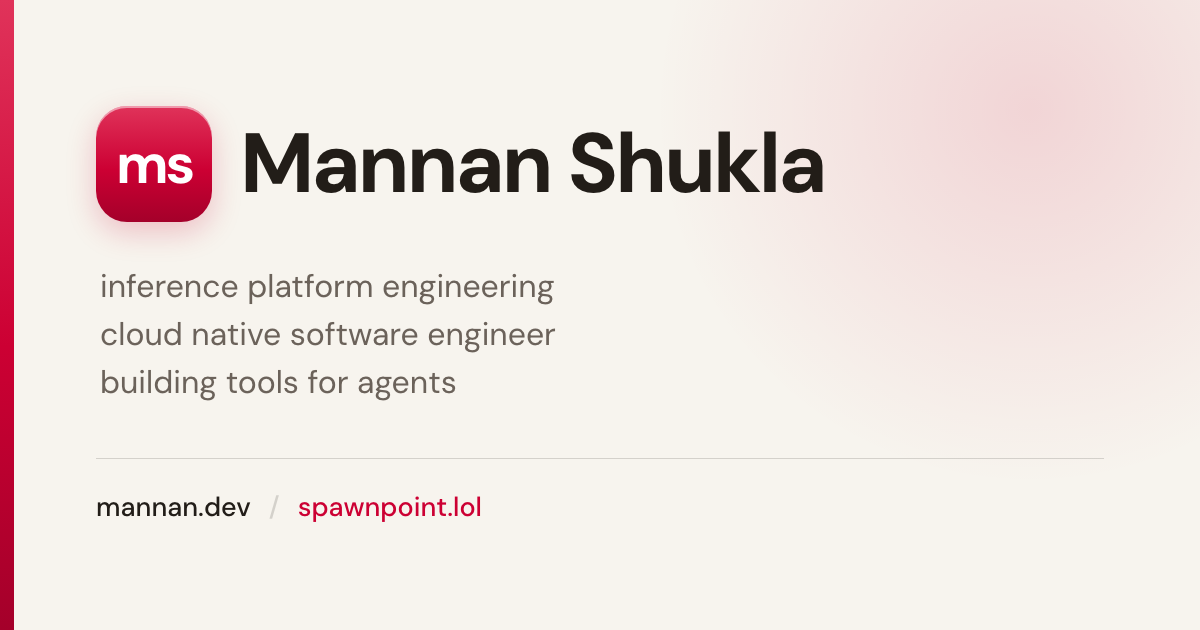
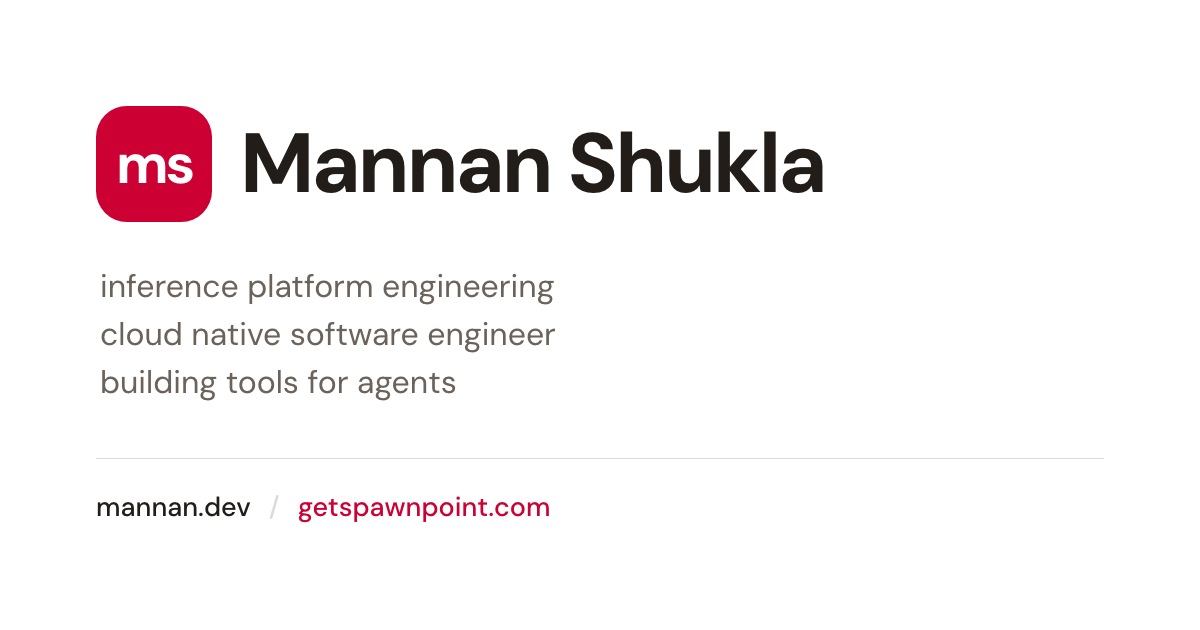
Flatten the social preview card and point it at getspawnpoint.com
Claude-Session: https://claude.ai/code/session_01284gCzt4fkzW3mfonY6vRM

diff --git a/misc/og.html b/misc/og.html
@@ -22,10 +22,9 @@
     }
 
     :root {
-      --paper: #f7f4ee;
+      --paper: #ffffff;
       --accent: #cc0033;
-      --accent-deep: #a4002a;
-      --ink: #221d18;
+            --ink: #221d18;
       --muted: #6b625a;
       --hairline: rgba(34, 29, 24, 0.16);
     }
@@ -48,27 +47,6 @@
       -webkit-font-smoothing: antialiased;
     }
 
-    /* warm bleed from the accent, upper right */
-    .card::before {
-      content: "";
-      position: absolute;
-      top: -280px;
-      right: -220px;
-      width: 780px;
-      height: 780px;
-      border-radius: 50%;
-      background: radial-gradient(circle, rgba(204, 0, 51, .13), rgba(204, 0, 51, 0) 68%);
-    }
-    /* accent rule down the left edge */
-    .card::after {
-      content: "";
-      position: absolute;
-      top: 0;
-      left: 0;
-      width: 14px;
-      height: 100%;
-      background: linear-gradient(180deg, #e0335a, var(--accent) 55%, var(--accent-deep));
-    }
 
     .row { position: relative; display: flex; align-items: center; gap: 28px; }
 
@@ -83,8 +61,7 @@
       font-size: 56px;
       letter-spacing: -.06em;
       line-height: 1;
-      background-image: linear-gradient(180deg, #e0335a, var(--accent) 55%, var(--accent-deep));
-      box-shadow: inset 0 2px 0 rgba(255,255,255,.5), 0 10px 30px rgba(204,0,51,.22);
+      background: var(--accent);
     }
 
     h1 {
@@ -135,7 +112,7 @@
     <div class="foot">
       <span>mannan.dev</span>
       <span class="dot">/</span>
-      <span class="sp">spawnpoint.lol</span>
+      <span class="sp">getspawnpoint.com</span>
     </div>
   </div>
 </body>
